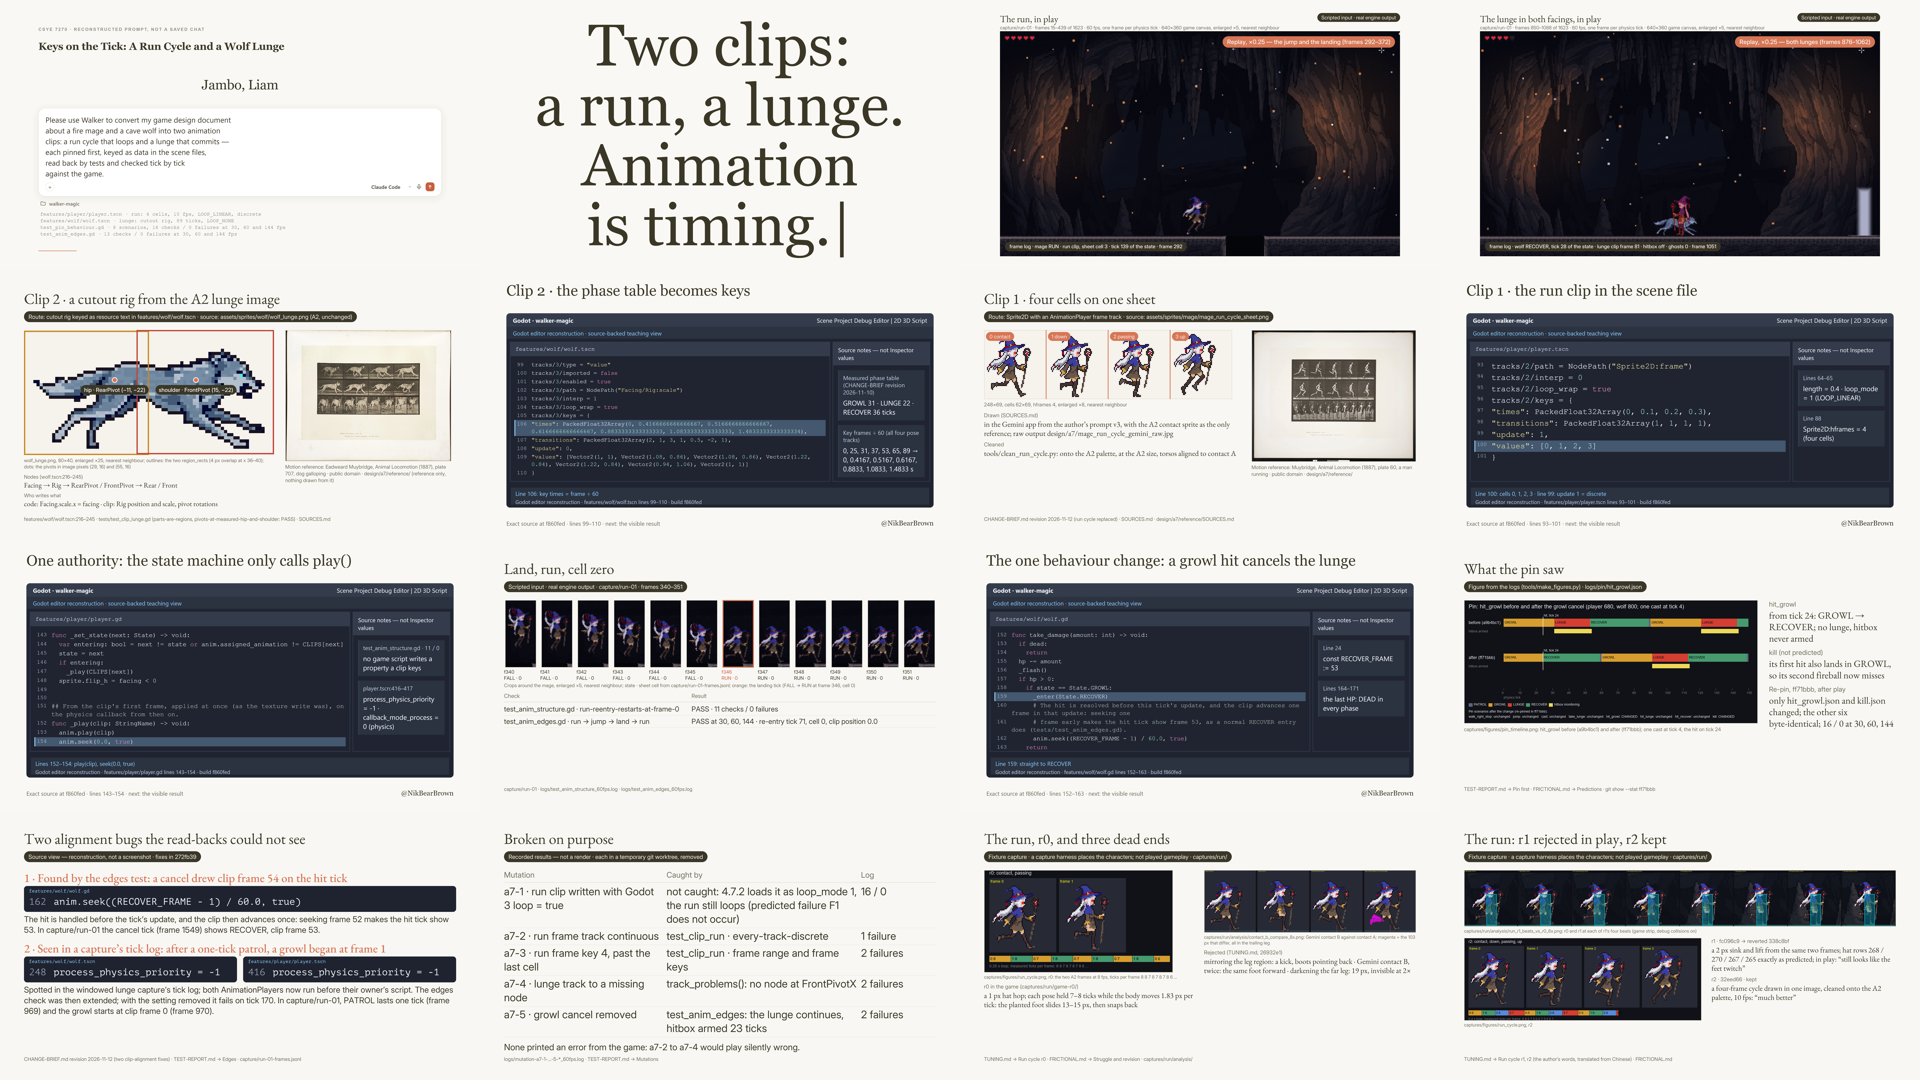
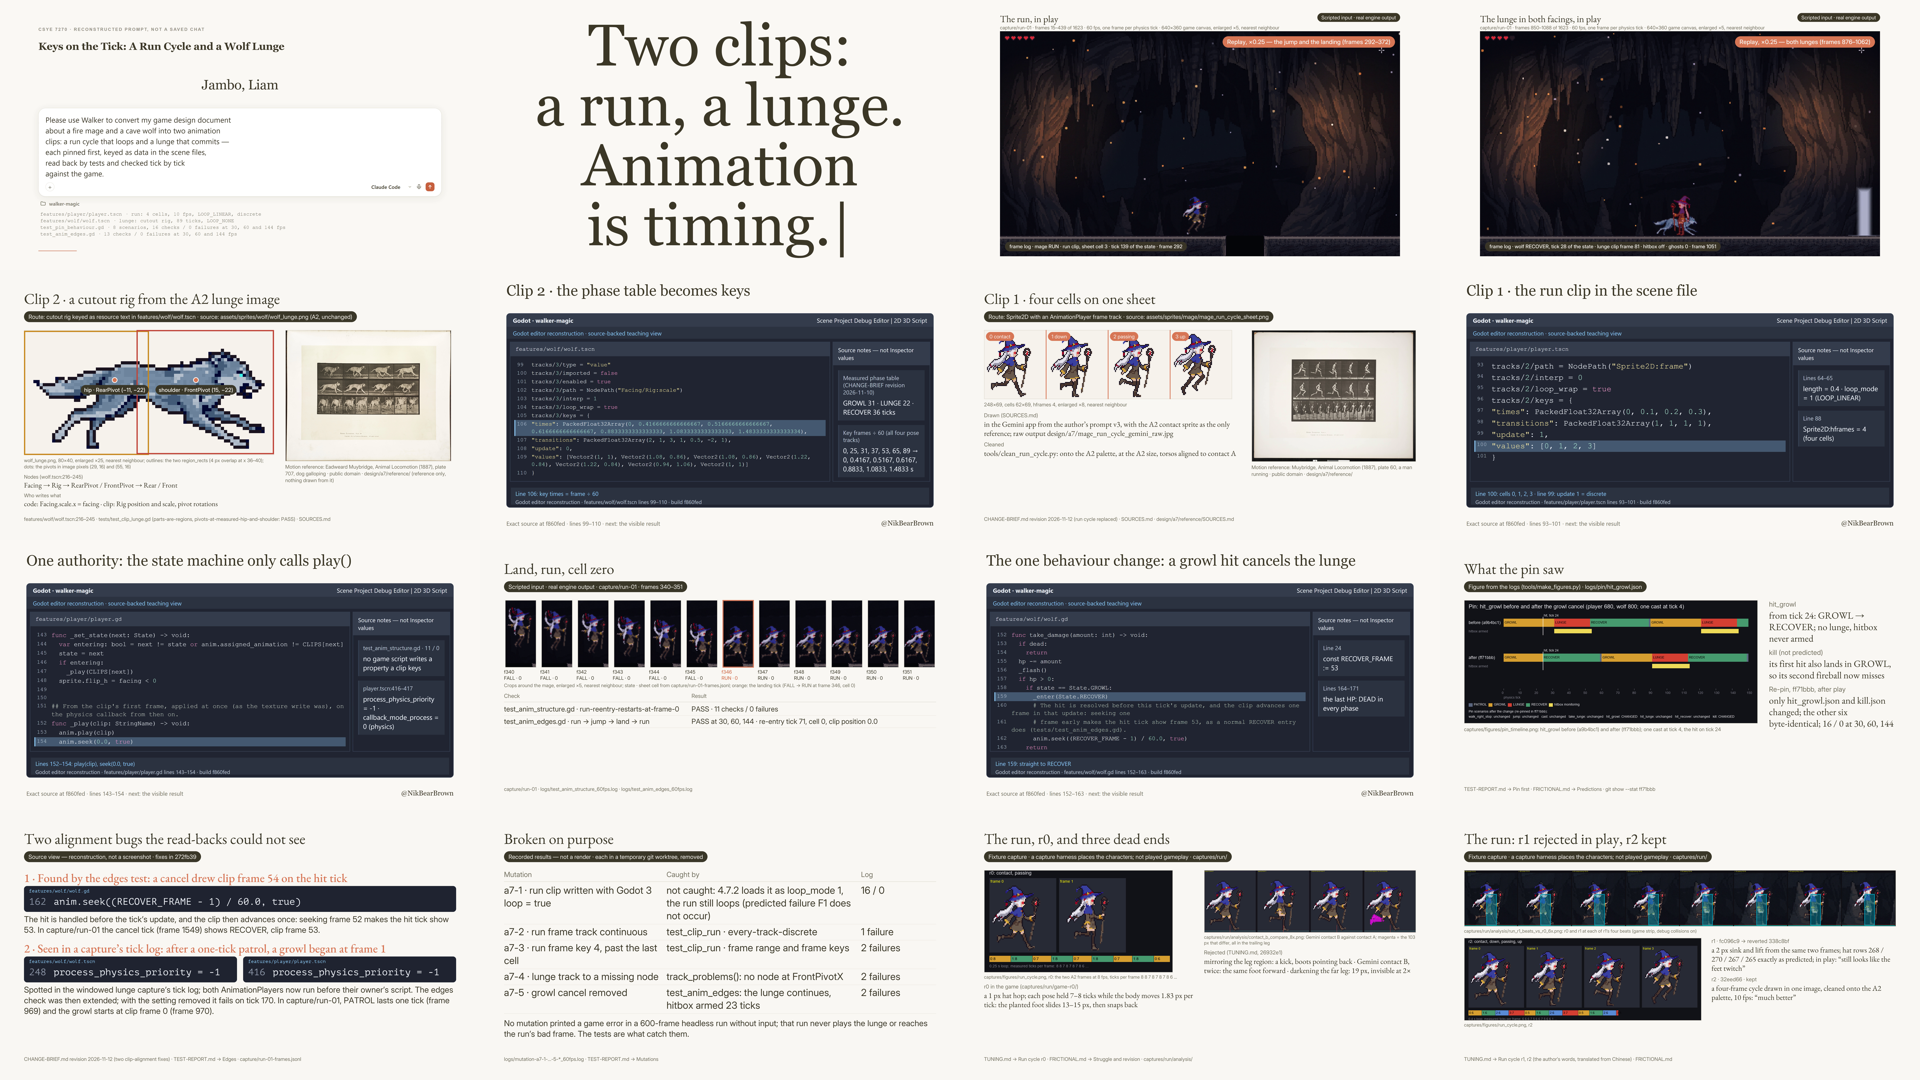
Film records: B19 mutation note states what the no-input run showed (agent, at the author's request; Brutalist godot-gamedev)

Changed region(s): [[0.25, 0.7944, 0.4688, 0.9778]]

diff --git a/fall-2026/zhefan-z/assignment-7/walker-magic-zhefan/youtube/claude-liam-walker-magic-animation-gamedev/scripts/media.py b/fall-2026/zhefan-z/assignment-7/walker-magic-zhefan/youtube/claude-liam-walker-magic-animation-gamedev/scripts/media.py
@@ -497,7 +497,8 @@ def build():
          ('a7-3 · run frame key 4, past the last cell', 'test_clip_run · frame range and frame keys', '2 failures'),
          ('a7-4 · lunge track to a missing node', 'track_problems(): no node at FrontPivotX', '2 failures'),
          ('a7-5 · growl cancel removed', 'test_anim_edges: the lunge continues, hitbox armed 23 ticks', '2 failures')],
-        [1300, 1556, 600], 'None printed an error from the game: a7-2 to a7-4 would play silently wrong.',
+        [1300, 1556, 600], 'No mutation printed a game error in a 600-frame headless run without input; that run never plays the lunge '
+        'or reaches the run’s bad frame. The tests are what catch them.',
         'logs/mutation-a7-1-…-5-*_60fps.log · TEST-REPORT.md → Mutations'),
         {'card': 'media/B19.png', 'source': 'logs/mutation-a7-*_60fps.log'})
 

diff --git a/fall-2026/zhefan-z/assignment-7/walker-magic-zhefan/youtube/claude-liam-walker-magic-animation-gamedev/FACTCHECK.md b/fall-2026/zhefan-z/assignment-7/walker-magic-zhefan/youtube/claude-liam-walker-magic-animation-gamedev/FACTCHECK.md
@@ -25,7 +25,7 @@ Documents and game source at f860fed. "Capture" = `capture/run-01-inputs.jsonl` 
 | B16 | hit_growl differs from tick 24, GROWL → RECOVER, no lunge; kill changed too (first hit in a growl); not predicted; played, accepted, re-pinned: two files; 16 / 16 at all three rates | `captures/figures/pin_timeline.png`; TEST-REPORT.md "Pin first"; FRICTIONAL.md "Predictions"; `git show --stat ff71bbb` (hit_growl.json, kill.json); `logs/test_pin_behaviour_*fps.log` at ff71bbb |
 | B17 | clicks timed to land on a boundary; first/last growl tick cancel; first/last lunge tick don't; kill wins everywhere; 13 / 13 at three rates | `logs/test_anim_edges_{30,60,144}fps.log`; TEST-REPORT.md "Edges" |
 | B18 | a cancel drew frame 54, now seeks 52; a growl after a one-tick patrol started at frame 1, so both players run first; this capture shows both fixes holding | CHANGE-BRIEF.md revision 2026-11-12; `wolf.gd` 162; `wolf.tscn` 248; `player.tscn` 416; capture frame 1549 (clip frame 53), frames 969–970 (PATROL one tick, GROWL at clip frame 0) |
-| B19 | Godot 3 `loop = true` not caught, loads as looping; continuous frame track, cell past the sheet, missing node, no cancel: all caught | `logs/mutation-a7-1…5-*_60fps.log` (16 / 0; 1, 2, 2, 2 failures); TEST-REPORT.md "Mutations"; CHANGE-BRIEF.md revision 2026-11-12 (F1 does not occur) |
+| B19 | Godot 3 `loop = true` not caught, loads as looping; continuous frame track, cell past the sheet, missing node, no cancel: all caught. Card note (revised 2026-11-13): no mutation printed a game error in a 600-frame headless run without input, which never plays the lunge or reaches the run's bad frame; the tests catch them | `logs/mutation-a7-1…5-*_60fps.log` (16 / 0; 1, 2, 2, 2 failures); TEST-REPORT.md "Mutations"; CHANGE-BRIEF.md revision 2026-11-12 (F1 does not occur) |
 | B20 | from sight distance only casts in the first 12 growl ticks (0.2 s) cancel; removal after death on frame time: tick 79 at 60, 80 at 30 and 144 | `captures/figures/growl_window.png`; TUNING.md (growl cancel entry); CHANGE-BRIEF.md revisions 2026-11-10 and 2026-11-12; `captures/figures/two_clocks.png`; `wolf.gd` 170 |
 | B21 | r0 two frames; 1 px hat hop; planted foot slides 13–15 px, snaps back; three fixes for the other foot failed | TUNING.md run r0 and "Attempts that failed"; FRICTIONAL.md "Struggle and revision" 2–3; `captures/run/analysis/` |
 | B22 | r1 bobbed the body; hat rows exactly as predicted; rejected in play (feet still twitch); r2 four-frame cycle kept | TUNING.md r1 (268 / 270 / 267 / 265), r2; git log `fc096c9`, `338c8bf`, `32eed66` |

diff --git a/fall-2026/zhefan-z/assignment-7/walker-magic-zhefan/youtube/claude-liam-walker-magic-animation-gamedev/_qc/REPORT.md b/fall-2026/zhefan-z/assignment-7/walker-magic-zhefan/youtube/claude-liam-walker-magic-animation-gamedev/_qc/REPORT.md
@@ -3,15 +3,3 @@
 Frames sampled: 62  ·  BLOCKER: 0  ·  MAJOR: 0
 
 Clean — no BLOCKER/MAJOR defects. ✓
-## Manual frame review (Claude Code, 2026-11-13)
-
[1 lines of base64/hex data omitted]
-
-Corrected before this master:
-- First `art final` refused: Gate V MAJOR `underfill` on B01 at 50 % and 85 % (54 % of the safe area). The hesitant writer's type went from 190 to 235 px; the second export passed (0 BLOCKER, 0 MAJOR).
-- GodotDevWorkbench does not scroll: the first renders of B10, B12, B15 and B23 cut the excerpt before the cued line (for example B10 ended at line 99 while the cue read "Line 100"). Excerpts narrowed (B10 93–101, B12 143–154, B15 152–163, B23 19–30) and type set so every line shows; the dropped lines moved into labelled source notes. The pilot (B07) showed the notes column clips a third note: every workbench now carries two.
-- B18's second heading ran past the right margin at the largest type: the card layout now checks heading width, and the heading was shortened.
-- B03 first included capture frame 441, which is empty (the scene had been freed between segments): real speed now ends at 439; the torch measurement stops at 440.
-- B02 first showed both whole frames at ×2 with half the card empty: it now shows the same crop at ×3. B13 crops enlarged ×4 → ×5; B16's figure widened.
-
-Remaining, accepted: the capture crops on B11 are small (×4 of a 50×84 px crop, 25 ticks on one card); the Muybridge plates on B06 and B09 are shown whole (the plate, not a crop) so each frame of the sequence is small; the cards carry their source in the footer but no @NikBearBrown corner bug (as in the Assignment 3, 5 and 6 films); the code views, composer beats and verdict carry it. The crosshair the game draws at the parked mouse position overlaps the top-right phase chip on gameplay beats by a few pixels; both stay legible. Gameplay is scripted input, not a human playtest; how the clips read in play is the author's judgement.
